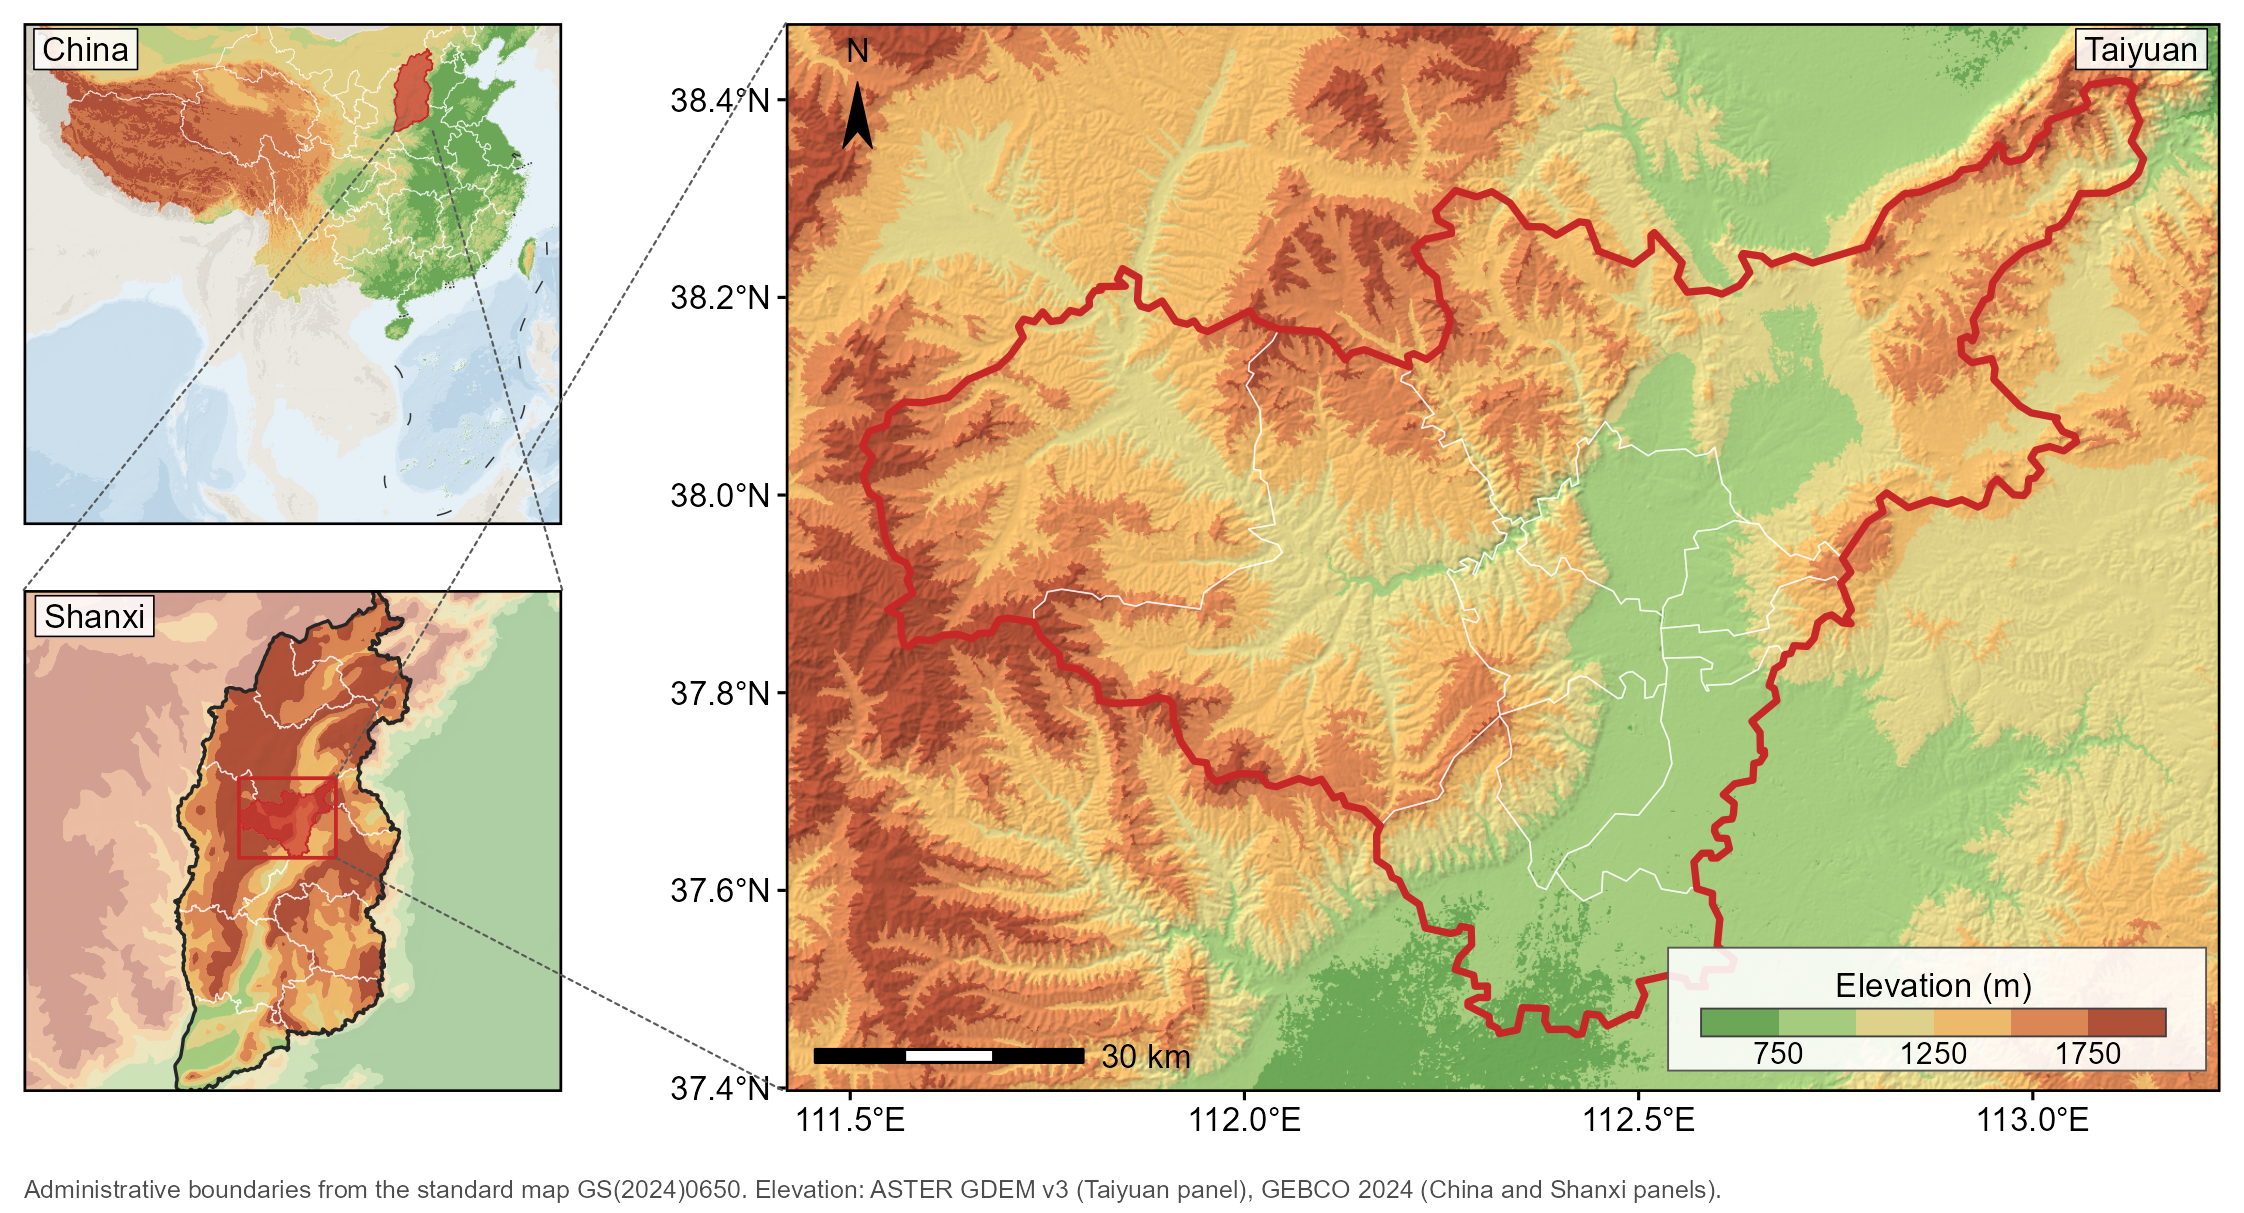
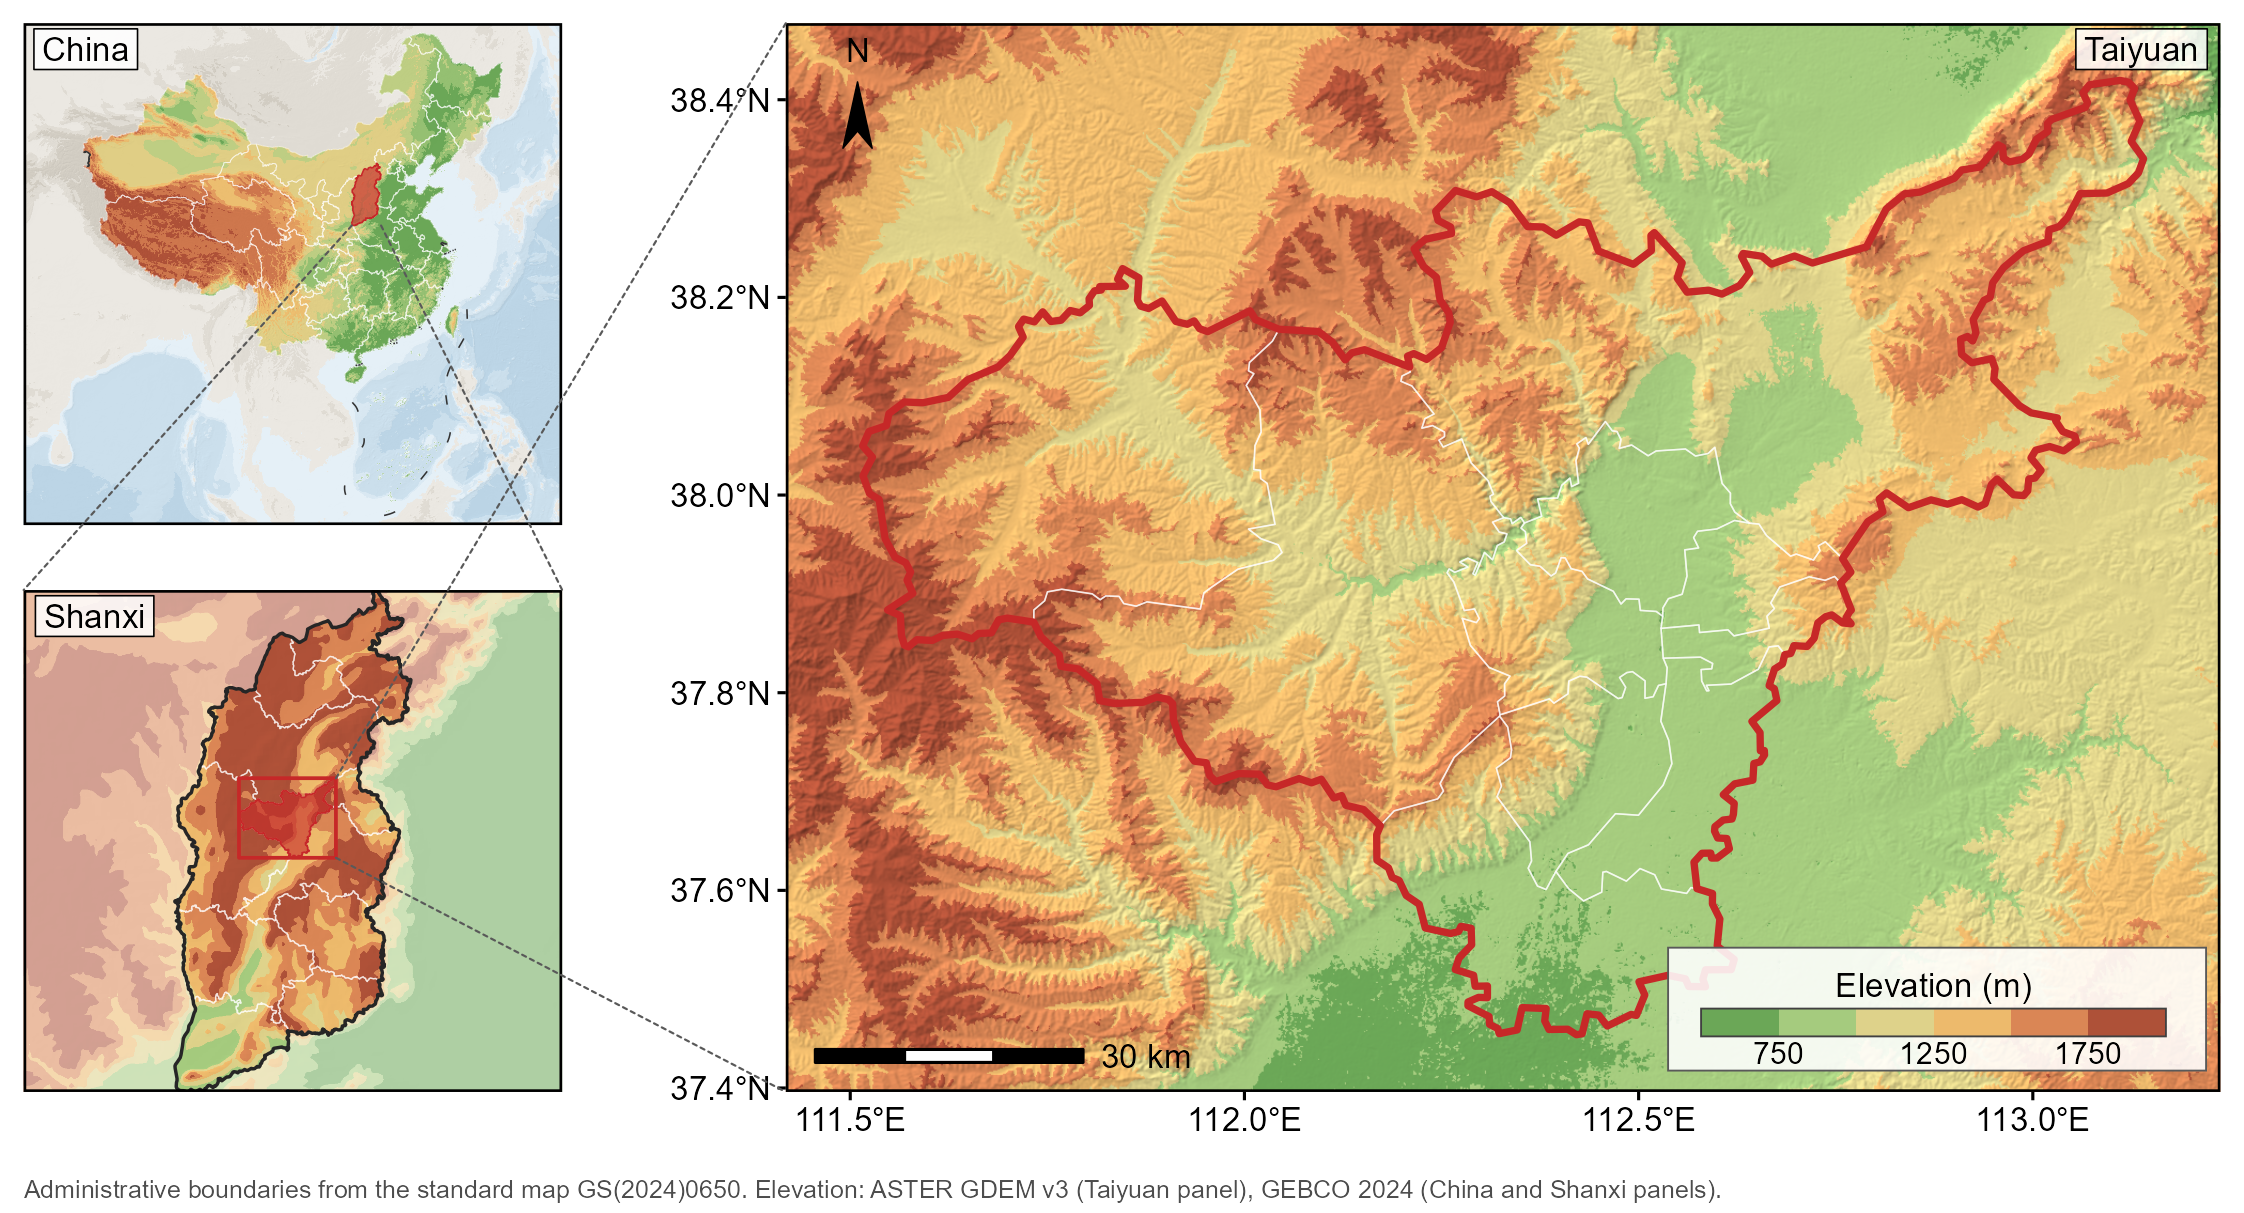
修正国家面板窗口：合并所有须入框图层的范围
三级示例原先拿 中国_省line.shp 的 bbox 当国家窗口。该图层只有 8 条境界线段，
最北仅 38.68 度，导致东北、内蒙、新疆、台湾被整片裁掉，99 个地级单元受影响，
而图面看不出异常。

新增 bbox_union()，窗口改由省级面与境界线合并求得。核对：34 个省级单元与全部
境界线均完整落在窗口内，四边余量 西/东 685 km、南 155 km、北 111 km。

SKILL.md 补上这条坑与对应的 st_within 断言写法。

Changed region(s): [[0.0, 0.0, 0.2496, 0.4575]]

diff --git a/SKILL.md b/SKILL.md
@@ -64,7 +64,16 @@ W <- c(xmin = max(sL[, 1]), xmax = min(sR[, 1]),
        ymin = max(sB[, 2]), ymax = min(sT[, 2]))
 ```
 
-The mirror-image failure is worse and quieter: for a **country panel**, taking the bbox of a transformed lon/lat rectangle *clips real land*. In a Lambert projection of China, a 73–136°E × 17.5–54.5°N rectangle loses roughly 600 km off the south — Yunnan, Guangxi, Guangdong, Hainan, Taiwan, Hong Kong and Macau all vanish, and the map still looks plausible. For country panels take `st_bbox()` of the **data** (the province polygons, or the national boundary layer when the map must show maritime claims), never of a coordinate rectangle.
+The mirror-image failure is worse and quieter: for a **country panel**, taking the bbox of a transformed lon/lat rectangle *clips real land*. In a Lambert projection of China, a 73–136°E × 17.5–54.5°N rectangle loses roughly 600 km off the south — Yunnan, Guangxi, Guangdong, Hainan, Taiwan, Hong Kong and Macau all vanish, and the map still looks plausible. For country panels take `st_bbox()` of the **data**, never of a coordinate rectangle.
+
+Take it from *every* layer that has to fit, via `bbox_union()`. One layer's bbox is not a proxy for the others, and boundary-line layers are the usual trap: they frequently hold only selected segments — disputed sections, maritime lines — so their extent can stop far short of the polygons. A real case: a national line layer whose northernmost feature sat at 38.68°N, used alone as the window, cut 14.9° of latitude and 12.3° of longitude off a country map and dropped 99 prefecture units. The frame still looked like a plausible map.
+
+Then verify rather than eyeball it — at locator-panel size a missing province is invisible:
+
+```r
+clip <- sf::st_as_sfc(sf::st_bbox(W, crs = sf::st_crs(prov)))
+stopifnot(all(lengths(sf::st_within(sf::st_geometry(prov), clip)) > 0))
+```
 
 ### Fix the slot first, then expand the window
 
@@ -367,6 +376,7 @@ Two things still need explicit syncing because they are computed per figure:
 
 - Alpha-blending the hillshade, then compensating with a more saturated palette
 - `st_bbox()` of a transformed lon/lat rectangle for a country panel — silently amputates the south
+- Taking the window from one layer's bbox when several layers must fit — partial line layers cut whole regions off, and the result still looks like a map
 - Sizing an inset from a corner-bbox aspect ratio instead of the rendered panel ratio
 - Calling `ggplotGrob()` with no font-aware device open
 - A white casing under the accent-coloured boundary: at figure scale the casing blends into the line and it reads pink, not red, and no longer matches its own legend swatch
